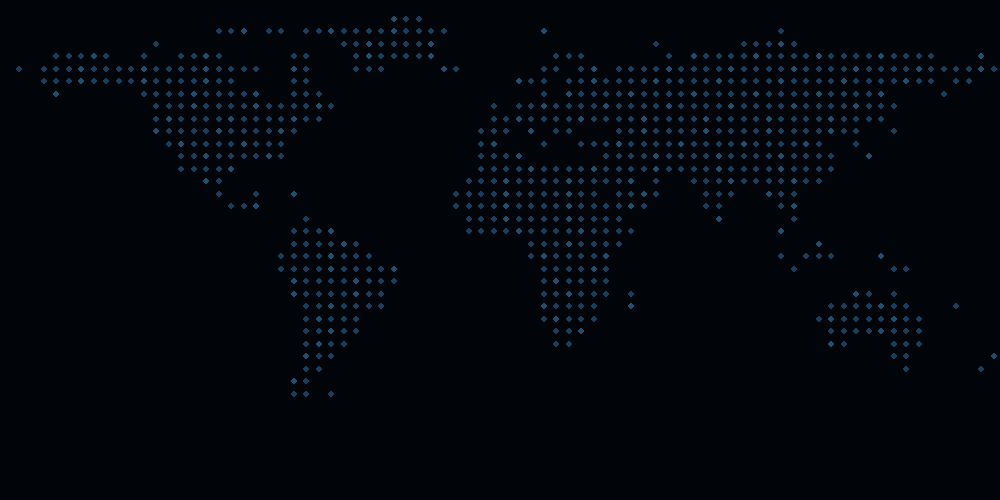
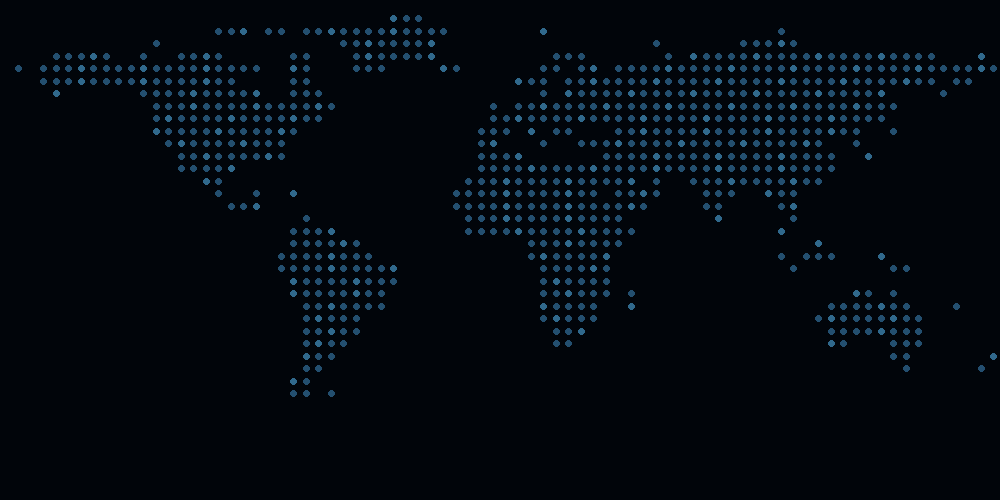
accueil : mise à jour

diff --git a/jeux.html b/jeux.html
@@ -32,7 +32,7 @@
     <li>Le gagnant est annoncé le dimanche à 18&nbsp;h, en story.</li>
     <li>La participation est gratuite et sans obligation d'achat.</li>
   </ul>
-  <p>Écrire à <a href="mailto:sailingmorehere@gmail.com">sailingmorehere@gmail.com</a>.</p>
+  <p>Écrire à <a href="mailto:hello.sailingmore@gmail.com">hello.sailingmore@gmail.com</a>.</p>
 </div>
 </body>
 </html>

diff --git a/index.html b/index.html
@@ -225,7 +225,7 @@
 </section>
 
 <footer>
-  <a href="mailto:sailingmorehere@gmail.com">sailingmorehere@gmail.com</a>
+  <a href="mailto:hello.sailingmore@gmail.com">hello.sailingmore@gmail.com</a>
   <a href="confidentialite.html">Confidentialité · Privacy</a>
   <a href="delete.html">Suppression de données · Data deletion</a>
   <span>© 2026 Sailing More</span>
